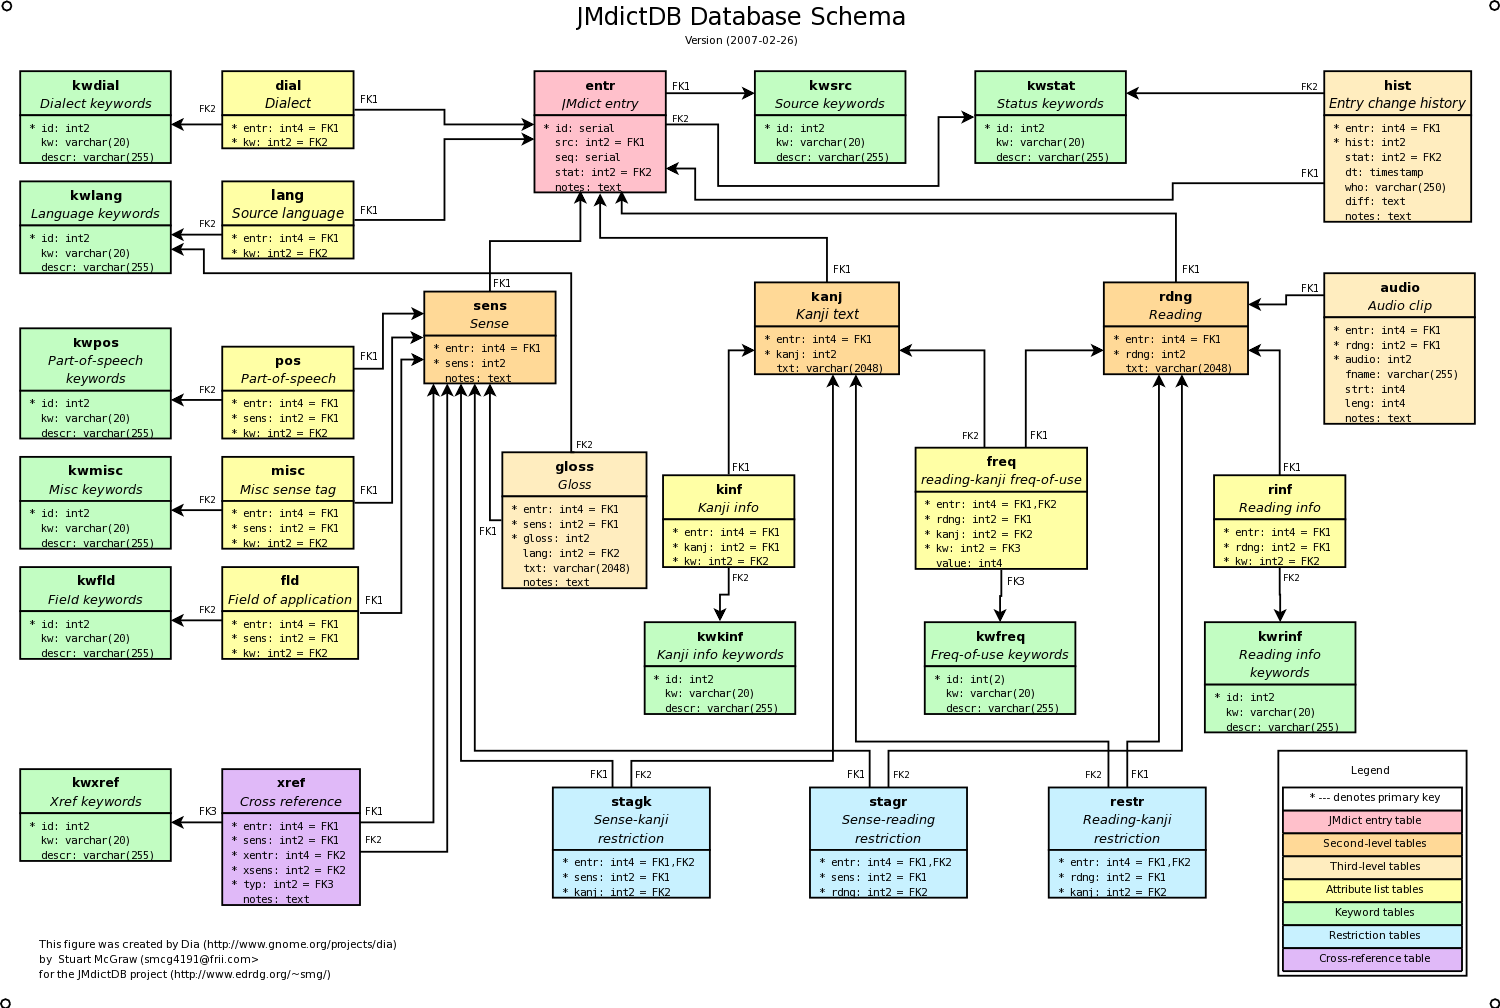
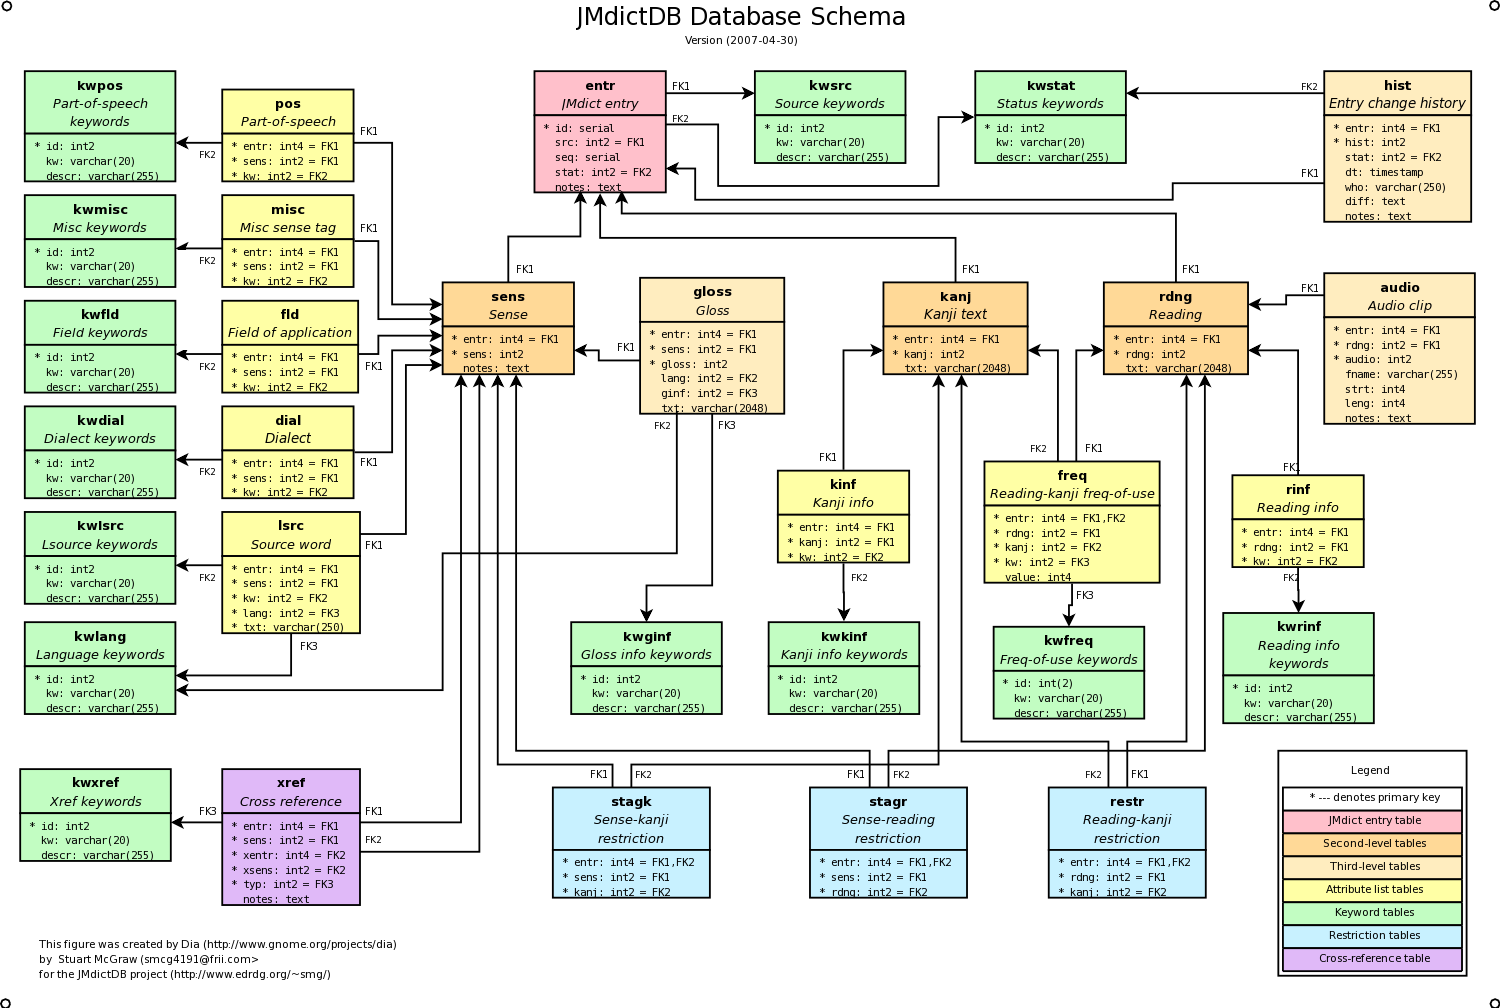
Regenerated to track changes in prerequisite files. {36}

Changed region(s): [[0.0, 0.0615, 0.92, 0.8304], [0.3067, 0.123, 0.368, 0.1538]]

diff --git a/doc/schema.html b/doc/schema.html
@@ -6,7 +6,7 @@
 	<META NAME="GENERATOR" CONTENT="OpenOffice.org 2.0  (Linux)">
 	<META NAME="CREATED" CONTENT="20020715;12385300">
 	<META NAME="CHANGEDBY" CONTENT="Stuart McGraw">
-	<META NAME="CHANGED" CONTENT="20070313;13493600">
+	<META NAME="CHANGED" CONTENT="20070501;23212000">
 	<META NAME="SDENDNOTE" CONTENT="ARABIC;;[;]">
 	<STYLE>
 	<!--
@@ -205,28 +205,6 @@ denoted by indentation of the table names:</P>
 	</TR>
 	<TR VALIGN=TOP>
 		<TD WIDTH=21%>
-			<P>&nbsp;&nbsp;&nbsp;&nbsp;<B>dial</B></P>
-		</TD>
-		<TD WIDTH=28%>
-			<P>&lt;dial&gt;</P>
-		</TD>
-		<TD WIDTH=51%>
-			<P>Dialect(s)</P>
-		</TD>
-	</TR>
-	<TR VALIGN=TOP>
-		<TD WIDTH=21%>
-			<P>&nbsp;&nbsp;&nbsp;&nbsp;<B>lang</B></P>
-		</TD>
-		<TD WIDTH=28%>
-			<P>&lt;klang&gt;</P>
-		</TD>
-		<TD WIDTH=51%>
-			<P>Source language(s)</P>
-		</TD>
-	</TR>
-	<TR VALIGN=TOP>
-		<TD WIDTH=21%>
 			<P>&nbsp;&nbsp;&nbsp;&nbsp;<B>kanj</B></P>
 		</TD>
 		<TD WIDTH=28%>
@@ -337,6 +315,28 @@ denoted by indentation of the table names:</P>
 			<P>English and other language glosses</P>
 		</TD>
 	</TR>
+	<TR VALIGN=TOP>
+		<TD WIDTH=21%>
+			<P>&nbsp;&nbsp;&nbsp;&nbsp;&nbsp;&nbsp;&nbsp;&nbsp;<B>dial</B></P>
+		</TD>
+		<TD WIDTH=28%>
+			<P>&lt;dial&gt;</P>
+		</TD>
+		<TD WIDTH=51%>
+			<P>Dialect</P>
+		</TD>
+	</TR>
+	<TR VALIGN=TOP>
+		<TD WIDTH=21%>
+			<P>&nbsp;&nbsp;&nbsp;&nbsp;&nbsp;&nbsp;&nbsp;&nbsp;<B>lsrc</B></P>
+		</TD>
+		<TD WIDTH=28%>
+			<P>&lt;lsource&gt;</P>
+		</TD>
+		<TD WIDTH=51%>
+			<P>Source language and word</P>
+		</TD>
+	</TR>
 	<TR>
 		<TD COLSPAN=3 WIDTH=100% HEIGHT=64 VALIGN=TOP>
 			<P><BR><BR>
@@ -415,7 +415,7 @@ respectively. Since the referenced readings and kanji are always in
 the same entry, the <I><U>restr</U></I> table need only reference the
 entr column once, so the columns in <I><U>restr</U></I> will be
 (<I><SPAN STYLE="text-decoration: none"><SPAN STYLE="background: transparent">entr,rdng,
-kanj</SPAN></SPAN></I>) constituting the foreign keys (<I><SPAN STYLE="text-decoration: none"><SPAN STYLE="background: transparent">entr,rdng</SPAN></SPAN></I>)
+kanj</SPAN></SPAN></I>) and its foreign keys are (<I><SPAN STYLE="text-decoration: none"><SPAN STYLE="background: transparent">entr,rdng</SPAN></SPAN></I>)
 and (<I><SPAN STYLE="text-decoration: none"><SPAN STYLE="background: transparent">entr,kanj</SPAN></SPAN></I>).
  The <I><U>stagr</U></I> and <I><U>stagk</U></I> tables are similar.</P>
 <P STYLE="margin-bottom: 0.2in">The table <I><U>xref</U></I> also has
@@ -444,7 +444,7 @@ prefix &quot;kw&quot; and we sometimes collectively refer to them as
 &quot;lookup tables&quot; in database literature.)  We also use the
 words “keyword” and “tag” somewhat interchangeably, although
 the former tends to occur in the context of the database, and the
-latter in the context of the JMdict XML.</P>
+latter in the context of the JMdict XML.\</P>
 <P STYLE="margin-bottom: 0.2in">Here are the contents of the <I><U>kinf</U></I>
 table, which contains the keywords used in the <I><U>kinf</U></I>
 table (which in turn corresponds to the &lt;ke_inf&gt; elements in
@@ -459,11 +459,20 @@ oK | word containing out-dated kanji<BR>4</FONT><KBD><FONT SIZE=2 STYLE="font-si
 ik | word containing irregular kana usage</FONT></KBD></FONT></FONT></P>
 <P STYLE="margin-bottom: 0.2in">kw* tables that correspond to
 entities and abbreviations used in JMdict xml are: <I><U>kwdial</U></I>,
-<I><U>kwfreq</U></I>, <I><U>kwkinf</U></I>, <I><U>kwlang</U></I>,
-<I><U>kwrinf</U></I>.</P>
-<P STYLE="margin-bottom: 0.2in">There are several kw* tables that
-don't correspond to anything in JMdict: <I><U>kwsrc</U></I>, <I><U>kwstat</U></I>,
-<I><U>kwxref</U></I>.</P>
+<I><U>kwfld</U></I>, <I><U>kwfreq</U></I>, <I><U>kwkinf</U></I>,
+<I><U>kwlang</U></I>, <I><U>kwlsrc</U></I>, <I><U>kwmisc</U></I>,
+<I><U>kwpos</U></I>, <I><U>kwrinf</U></I>.  There are several kw*
+tables that don't correspond to anything in JMdict: <I><U>kwsrc</U></I>,
+<I><U>kwstat</U></I>, <I><U>kwxref</U></I>.</P>
+<P STYLE="margin-bottom: 0.2in">The keyword tables' primary function
+is to enforce the use of valid keyword values in other tables by
+means of referential integrity.  For this purpose only the values in
+the keyword tables' <I><SPAN STYLE="text-decoration: none"><SPAN STYLE="background: transparent">id</SPAN></SPAN></I>
+columns are significant.  The <I><SPAN STYLE="text-decoration: none"><SPAN STYLE="background: transparent">kw</SPAN></SPAN></I>
+and <I><SPAN STYLE="text-decoration: none"><SPAN STYLE="background: transparent">descr</SPAN></SPAN></I>
+texts are available for the use of applications to use for display,
+but applications are free to map their own texts to the keyword id
+numbers.</P>
 <P STYLE="margin-bottom: 0.2in">The keyword tables are colored green
 in the schema diagram.</P>
 <OL>
@@ -483,9 +492,14 @@ and <I><SPAN STYLE="text-decoration: none"><SPAN STYLE="background: transparent"
 together identify a specific kanji element that a keyword applies to,
 and <I><SPAN STYLE="text-decoration: none"><SPAN STYLE="background: transparent">kw</SPAN></SPAN></I>
 identifies the appropriate ke_inf keyword in table <I><SPAN STYLE="text-decoration: none"><SPAN STYLE="background: transparent">kwkinf</SPAN></SPAN></I>.</P>
+<P STYLE="margin-bottom: 0.2in">A few keyword list table have some
+other information in addition to the keywords.  The table <I><U>freq</U></I>
+for example contains freq keywords, and also a numeric value
+associated with each.  The rows in table <I><U>lsrc</U></I> contain
+an lsrc keyword and also a language keyword and text source word.</P>
 <P STYLE="margin-bottom: 0.2in">The tables that contain such keyword
 lists are: <I><U>dial</U></I>, <I><U>fld</U></I>, <I><U>freq</U></I>,
-<I><U>kinf</U></I>, <I><U>lang</U></I>, <I><U>misc</U></I>, <I><U>pos</U></I>,
+<I><U>kinf</U></I>, <I><U>lsrc</U></I>, <I><U>misc</U></I>, <I><U>pos</U></I>,
 <I><U>rinf</U></I>. 
 </P>
 <P STYLE="margin-bottom: 0.2in">Not all references to the kw* tables
@@ -635,8 +649,8 @@ and JMdict XML recreated from the database:</P>
 	<LI><P CLASS="list-2-start-western">There may be keyword values in
 	the kw* tables and used in the database that do not have equivalent
 	entities defined in the JMdict DTD.</P>
-	<LI><P CLASS="list-2-start-western">Some items (e.g. entries and
-	glosses) have a <I><SPAN STYLE="text-decoration: none"><SPAN STYLE="background: transparent">notes</SPAN></SPAN></I>
+	<LI><P CLASS="list-2-start-western">The <I><U>entr</U></I> table has
+	a <I><SPAN STYLE="text-decoration: none"><SPAN STYLE="background: transparent">notes</SPAN></SPAN></I>
 	column that can contain additional ad-hoc information.  JMdict has
 	no means of representing this information.</P>
 	<P STYLE="margin-bottom: 0.2in">If entries are created that make use
@@ -743,23 +757,23 @@ users.</P>
 <P STYLE="margin-bottom: 0.2in; background: #e6e6ff; border: 1px solid #000000; padding: 0.02in; page-break-inside: avoid; widows: 0; orphans: 0; page-break-before: auto; page-break-after: avoid">
 <FONT FACE="Courier New, monospace"><FONT SIZE=2 STYLE="font-size: 9pt">select
 * from gloss where entr=20894;<BR>entr<KBD>&nbsp;<KBD>&nbsp;</KBD></KBD>|
-sens | gloss | lang | txt<KBD>&nbsp;<KBD>&nbsp;<KBD>&nbsp;<KBD>&nbsp;<KBD>&nbsp;<KBD>&nbsp;<KBD>&nbsp;<KBD>&nbsp;<KBD>&nbsp;<KBD>&nbsp;</KBD></KBD></KBD></KBD></KBD></KBD></KBD></KBD></KBD></KBD>|
-notes<BR>------+------+-------+------+--------------+-------<BR>20894
+sens | gloss | lang |
+txt<KBD>&nbsp;<KBD>&nbsp;<KBD>&nbsp;<KBD>&nbsp;<KBD>&nbsp;<KBD>&nbsp;<KBD>&nbsp;<KBD>&nbsp;<KBD>&nbsp;<KBD>&nbsp;</KBD></KBD></KBD></KBD></KBD></KBD></KBD></KBD></KBD></KBD><BR>------+------+-------+------+--------------<BR>20894
 | 1<KBD>&nbsp;<KBD>&nbsp;<KBD>&nbsp;<KBD>&nbsp;</KBD></KBD></KBD></KBD>|
 1<KBD>&nbsp;<KBD>&nbsp;<KBD>&nbsp;<KBD>&nbsp;<KBD>&nbsp;</KBD></KBD></KBD></KBD></KBD>|
 1<KBD>&nbsp;<KBD>&nbsp;<KBD>&nbsp;<KBD>&nbsp;</KBD></KBD></KBD></KBD>|
-proficient<KBD>&nbsp;<KBD>&nbsp;<KBD>&nbsp;</KBD></KBD></KBD>|<BR>20894
+proficient<KBD>&nbsp;<KBD>&nbsp;<KBD>&nbsp;</KBD></KBD></KBD><BR>20894
 | 1<KBD>&nbsp;<KBD>&nbsp;<KBD>&nbsp;<KBD>&nbsp;</KBD></KBD></KBD></KBD>|
 2<KBD>&nbsp;<KBD>&nbsp;<KBD>&nbsp;<KBD>&nbsp;<KBD>&nbsp;</KBD></KBD></KBD></KBD></KBD>|
 1<KBD>&nbsp;<KBD>&nbsp;<KBD>&nbsp;<KBD>&nbsp;</KBD></KBD></KBD></KBD>|
-skillful<KBD>&nbsp;<KBD>&nbsp;<KBD>&nbsp;<KBD>&nbsp;<KBD>&nbsp;</KBD></KBD></KBD></KBD></KBD>|<BR>20894
+skillful<KBD>&nbsp;<KBD>&nbsp;<KBD>&nbsp;<KBD>&nbsp;<KBD>&nbsp;</KBD></KBD></KBD></KBD></KBD><BR>20894
 | 2<KBD>&nbsp;<KBD>&nbsp;<KBD>&nbsp;<KBD>&nbsp;</KBD></KBD></KBD></KBD>|
 1<KBD>&nbsp;<KBD>&nbsp;<KBD>&nbsp;<KBD>&nbsp;<KBD>&nbsp;</KBD></KBD></KBD></KBD></KBD>|
 1<KBD>&nbsp;<KBD>&nbsp;<KBD>&nbsp;<KBD>&nbsp;</KBD></KBD></KBD></KBD>|
-satisfaction |<BR>20894 | 3<KBD>&nbsp;<KBD>&nbsp;<KBD>&nbsp;<KBD>&nbsp;</KBD></KBD></KBD></KBD>|
+satisfaction <BR>20894 | 3<KBD>&nbsp;<KBD>&nbsp;<KBD>&nbsp;<KBD>&nbsp;</KBD></KBD></KBD></KBD>|
 1<KBD>&nbsp;<KBD>&nbsp;<KBD>&nbsp;<KBD>&nbsp;<KBD>&nbsp;</KBD></KBD></KBD></KBD></KBD>|
 1<KBD>&nbsp;<KBD>&nbsp;<KBD>&nbsp;<KBD>&nbsp;</KBD></KBD></KBD></KBD>|
-fortitude<KBD>&nbsp;<KBD>&nbsp;<KBD>&nbsp;<KBD>&nbsp;</KBD></KBD></KBD></KBD>|</FONT></FONT></P>
+fortitude<KBD>&nbsp;<KBD>&nbsp;<KBD>&nbsp;<KBD>&nbsp;</KBD></KBD></KBD></KBD></FONT></FONT></P>
 <P STYLE="margin-bottom: 0.2in">In this table we see the first two
 rows are glosses for the first sense, the second row is a gloss for
 second sense, and the third row a gloss for the third sense.  The
@@ -1071,7 +1085,7 @@ the JMdict XML element &lt;sense&gt;.<BR>    entr INT NOT NULL,<BR>
 -- belongs to.<BR>    sens SMALLINT NOT NULL,<BR>      --
 Disambiguates and orders multiple senses in an entry.<BR>    notes
 TEXT,<BR>      -- Arbitrary additional textual information pertaining
-to <BR>      -- this sense.  Maps to the JMdict XML &lt;s_info&gt;
+to <BR>      -- this sense.  Maps to the JMdict XML &lt;s_inf&gt;
 element.<BR>    PRIMARY KEY(entr,sens));<BR><BR>CREATE TABLE gloss (<BR>
      -- Represents a gloss in a sense.  Maps to the JMdict XML<BR>   
   -- &lt;gloss&gt; element.<BR>    entr INT NOT NULL,<BR>      -- FK
@@ -1080,15 +1094,15 @@ to identify the entry this gloss belongs to.<BR>    sens SMALLINT NOT
 NULL,<BR>      -- FK to <I><SPAN STYLE="text-decoration: none"><SPAN STYLE="background: transparent">sens.sens</SPAN></SPAN></I>
 to identify the sense this gloss belongs to.<BR>    gloss SMALLINT
 NOT NULL,<BR>      -- Disambiguates and orders multiple glosses in a
-sense.<BR>    lang SMALLINT NOT NULL,<BR>      -- FK to <I><SPAN STYLE="text-decoration: none"><SPAN STYLE="background: transparent">kwlang.id</SPAN></SPAN></I>.
- Language of this gloss.<BR>    txt VARCHAR(2048) NOT NULL,<BR>     
--- The gloss text.<BR>    notes TEXT,<BR>      -- Arbitrary
-additional textual information pertaining to <BR>      -- this gloss.
- <BR>    PRIMARY KEY(entr,sens,gloss));<BR><BR>CREATE TABLE xref (<BR>
-     -- Models various types of cross-references between entries (or<BR>
-     -- more accurately, between senses of entries.)  Maps
-approximately<BR>      -- to JMdict XML elements &lt;xref&gt; and
-&lt;ant&gt;.<BR>    entr INT NOT NULL,<BR>      -- FK to <I><SPAN STYLE="text-decoration: none"><SPAN STYLE="background: transparent">entr.id</SPAN></SPAN></I>.
+sense.<BR>    lang SMALLINT NOT NULL,<BR>      -- FK to <I><U>kwlang</U></I><I><SPAN STYLE="text-decoration: none"><SPAN STYLE="background: transparent">.<SPAN STYLE="text-decoration: none"><SPAN STYLE="background: transparent">id</SPAN></SPAN></SPAN></SPAN></I>.
+ Language of this gloss.<BR>    ginf SMALLINT NOT NULL,<BR>      --
+FK to <I><U>kwginf</U></I>.<I><SPAN STYLE="text-decoration: none"><SPAN STYLE="background: transparent">id</SPAN></SPAN></I>.
+ Type of gloss.<BR>    txt VARCHAR(2048) NOT NULL,<BR>      -- The
+gloss text.<BR>    PRIMARY KEY(entr,sens,gloss));<BR><BR>CREATE TABLE
+xref (<BR>      -- Models various types of cross-references between
+entries (or<BR>      -- more accurately, between senses of entries.) 
+Maps approximately<BR>      -- to JMdict XML elements &lt;xref&gt;
+and &lt;ant&gt;.<BR>    entr INT NOT NULL,<BR>      -- FK to <I><SPAN STYLE="text-decoration: none"><SPAN STYLE="background: transparent">entr.id</SPAN></SPAN></I>.
  Identifies the entry this cross-reference<BR>      -- belongs to.<BR>
    sens SMALLINT NOT NULL,<BR>      -- FK to <I><SPAN STYLE="text-decoration: none"><SPAN STYLE="background: transparent">sens.id</SPAN></SPAN></I>.
  Identifies the sense this cross-reference<BR>      -- belongs to.<BR>
@@ -1157,41 +1171,49 @@ INT,<BR>      -- The value of the datum on the scale identified by
 <I><SPAN STYLE="text-decoration: none"><SPAN STYLE="background: transparent">kw</SPAN></SPAN></I>.<BR>
    UNIQUE (entr,rdng,kanj,kw),<BR>    CHECK (rdng NOTNULL OR kanj
 NOTNULL));<BR><BR>CREATE TABLE dial (<BR>      -- Provides lists of
-dialects for entries.  This information<BR>      -- corresponds to
-the JMdict XML &lt;dial&gt; element.<BR>    entr INT NOT NULL,<BR>   
-  -- FK to <I><SPAN STYLE="text-decoration: none"><SPAN STYLE="background: transparent">entr.id</SPAN></SPAN></I>.
- Identifies entry that dialect applies to.<BR>    kw SMALLINT NOT
-NULL,<BR>      -- FK to <I><SPAN STYLE="text-decoration: none"><SPAN STYLE="background: transparent">kwdial.id</SPAN></SPAN></I>.
- Identifies the dialect keyword.<BR>    PRIMARY KEY
-(entr,kw));<BR><BR>CREATE TABLE fld (<BR>      -- Provides lists of
-fields for entries.  This information<BR>      -- corresponds to the
-JMdict XML &lt;field&gt; element.<BR>    entr INT NOT NULL,<BR>     
+dialects for senses.  This information<BR>      -- corresponds to the
+JMdict XML &lt;dial&gt; element.<BR>    entr INT NOT NULL,<BR>     
 -- FK to <I><SPAN STYLE="text-decoration: none"><SPAN STYLE="background: transparent">entr.id</SPAN></SPAN></I>.
+ Identifies entry that dialect applies to.<BR><SAMP CLASS="western"> 
+  sens SMALLINT NOT NULL,<BR>      -- FK to <I><SPAN STYLE="text-decoration: none"><SPAN STYLE="background: transparent">sens.sens</SPAN></SPAN></I>.
+ Identifies the sense that field applies to.<BR></SAMP>    kw
+SMALLINT NOT NULL,<BR>      -- FK to <I><SPAN STYLE="text-decoration: none"><SPAN STYLE="background: transparent">kwdial.id</SPAN></SPAN></I>.
+ Identifies the dialect keyword.<BR>    PRIMARY KEY
+(entr,sens,kw));<BR><BR>CREATE TABLE fld (<BR>      -- Provides lists
+of fields for entries.  This information<BR>      -- corresponds to
+the JMdict XML &lt;field&gt; element.<BR>    entr INT NOT NULL,<BR>  
+   -- FK to <I><SPAN STYLE="text-decoration: none"><SPAN STYLE="background: transparent">entr.id</SPAN></SPAN></I>.
  Identifies entry that field applies to.<BR>    sens SMALLINT NOT
 NULL,<BR>      -- FK to <I><SPAN STYLE="text-decoration: none"><SPAN STYLE="background: transparent">sens.sens</SPAN></SPAN></I>.
  Identifies the sense that field applies to.<BR>    kw SMALLINT NOT
 NULL,<BR>      -- FK to <I><SPAN STYLE="text-decoration: none"><SPAN STYLE="background: transparent">kwfld.id</SPAN></SPAN></I>.
  Identifies the field keyword.<BR>    PRIMARY KEY
-(entr,sens,kw));<BR><BR>CREATE TABLE kinf (<BR>      -- Provides
-lists of kanji info tags for kanji items.  This<BR>      --
-information corresponds to the JMdict XML &lt;ke_inf&gt; element.<BR>
-   entr INT NOT NULL,<BR>      -- FK to <I><SPAN STYLE="text-decoration: none"><SPAN STYLE="background: transparent">entr.id</SPAN></SPAN></I>.
+(entr,sens,kw));<BR><SAMP CLASS="western"><BR></SAMP>CREATE TABLE
+kinf (<BR>      -- Provides lists of kanji info tags for kanji items.
+ This<BR>      -- information corresponds to the JMdict XML &lt;ke_inf&gt;
+element.<BR>    entr INT NOT NULL,<BR>      -- FK to <I><SPAN STYLE="text-decoration: none"><SPAN STYLE="background: transparent">entr.id</SPAN></SPAN></I>.
  Identifies entry that the kinf tag applies to.<BR>    kanj SMALLINT
 NOT NULL,<BR>      -- FK to <I><SPAN STYLE="text-decoration: none"><SPAN STYLE="background: transparent">kanj.kanj</SPAN></SPAN></I>.
  Identifies the kanji item that kinf tag<BR>      -- applies to.<BR> 
   kw SMALLINT NOT NULL,<BR>      -- FK to <I><SPAN STYLE="text-decoration: none"><SPAN STYLE="background: transparent">kwkinf.id</SPAN></SPAN></I>.
  Identifies the kanji info keyword.<BR>    PRIMARY KEY
-(entr,kanj,kw));<BR><BR>CREATE TABLE lang (<BR>      -- Provides
-lists of (source) language for entries.  This<BR>      -- information
-corresponds to the JMdict XML &lt;lang&gt; element.<BR>    entr INT
-NOT NULL,<BR>      -- FK to <I><SPAN STYLE="text-decoration: none"><SPAN STYLE="background: transparent">entr.id</SPAN></SPAN></I>.
- Identifies entry that field applies to.<BR>    kw SMALLINT NOT
-NULL,<BR>      -- FK to <I><SPAN STYLE="text-decoration: none"><SPAN STYLE="background: transparent">kwlang.id</SPAN></SPAN></I>.
- Identifies the language keyword.<BR>    PRIMARY KEY
-(entr,kw));<BR><BR>CREATE TABLE misc (<BR>      -- Provides lists of
-misc tags for senses.  This information<BR>      -- corresponds to
-the JMdict XML &lt;misc&gt; element.<BR>    entr INT NOT NULL,<BR>   
-  -- FK to <I><SPAN STYLE="text-decoration: none"><SPAN STYLE="background: transparent">entr.id</SPAN></SPAN></I>.
+(entr,kanj,kw));<BR><BR>CREATE TABLE lsrc (<BR>      -- Provides the
+foreign language word and language for each<BR>      -- sense for
+imported words.  This information corresponds to<BR>      -- the
+JMdict XML &lt;lsource&gt; element.<BR>    entr INT NOT NULL,<BR>    
+ -- FK to <I><SPAN STYLE="text-decoration: none"><SPAN STYLE="background: transparent">entr.id</SPAN></SPAN></I>.
+ Identifies entry that field applies to.<BR><SAMP CLASS="western">   
+sens SMALLINT NOT NULL,<BR>      -- FK to <I><SPAN STYLE="text-decoration: none"><SPAN STYLE="background: transparent">enrt.sens</SPAN></SPAN></I>.
+ Identifies the sens item that lsrc tag<BR>      -- applies to.<BR>  
+ Kw SMALLINT NOT NULL,<BR>      -- FK to <I><SPAN STYLE="text-decoration: none"><SPAN STYLE="background: transparent">kwlsrc.id</SPAN></SPAN></I>.
+ Identifies the type of lsource tag<BR>      -- this is.<BR></SAMP>  
+ lang SMALLINT NOT NULL,<BR>      -- FK to <I><SPAN STYLE="text-decoration: none"><SPAN STYLE="background: transparent">kwlang.id</SPAN></SPAN></I>.
+ Identifies the language keyword.<BR>    txt VARCHAR(250)<BR>      --
+The word in language 'lang' from which this word sense <BR>      --
+was derived.<BR>    PRIMARY KEY (entr,sens,kw,txt));<BR><BR>CREATE
+TABLE misc (<BR>      -- Provides lists of misc tags for senses. 
+This information<BR>      -- corresponds to the JMdict XML &lt;misc&gt;
+element.<BR>    entr INT NOT NULL,<BR>      -- FK to <I><SPAN STYLE="text-decoration: none"><SPAN STYLE="background: transparent">entr.id</SPAN></SPAN></I>.
  Identifies entry that misc tag applies to.<BR>    sens SMALLINT NOT
 NULL,<BR>      -- FK to <I><SPAN STYLE="text-decoration: none"><SPAN STYLE="background: transparent">sens.sens</SPAN></SPAN></I>.
  Identifies the sense that misc tag applies to.<BR>    kw SMALLINT
@@ -1263,27 +1285,31 @@ VARCHAR(255));<BR><BR>CREATE TABLE kwfreq (<BR>    id SMALLINT
 PRIMARY KEY,<BR>    kw VARCHAR(20) NOT NULL UNIQUE,<BR>    descr
 VARCHAR(255));<BR><BR>CREATE TABLE kwfld (<BR>    id SMALLINT PRIMARY
 KEY,<BR>    kw VARCHAR(20) NOT NULL UNIQUE,<BR>    descr
-VARCHAR(255));<BR><BR>CREATE TABLE kwkinf (<BR>    id SMALLINT
-PRIMARY KEY,<BR>    kw VARCHAR(20) NOT NULL,<BR>      -- 'kw' not
-declared UNIQUE because there are some<BR>      -- rows where kw
-differs only in case, and this (at<BR>      -- in some of the locales
-used during testing) violated<BR>      -- the unique constraint.<BR> 
-  descr VARCHAR(255));<BR><BR>CREATE TABLE kwlang (<BR>    id
+VARCHAR(255));<BR><BR><SAMP CLASS="western">CREATE TABLE kwginf (<BR>
+   id SMALLINT PRIMARY KEY,<BR>    kw VARCHAR(20) NOT NULL UNIQUE,<BR>
+   descr VARCHAR(255));<BR></SAMP><BR>CREATE TABLE kwkinf (<BR>    id
+SMALLINT PRIMARY KEY,<BR>    kw VARCHAR(20) NOT NULL,<BR>      --
+'kw' not declared UNIQUE because there are some<BR>      -- rows
+where kw differs only in case, and this (at<BR>      -- in some of
+the locales used during testing) violated<BR>      -- the unique
+constraint.<BR>    descr VARCHAR(255));<BR><BR>CREATE TABLE kwlang (<BR>
+   id SMALLINT PRIMARY KEY,<BR>    kw VARCHAR(20) NOT NULL UNIQUE,<BR>
+   descr VARCHAR(255));<BR><BR><SAMP CLASS="western">CREATE TABLE
+kwlsrc (<BR>    id SMALLINT PRIMARY KEY,<BR>    kw VARCHAR(20) NOT
+NULL UNIQUE,<BR>    descr VARCHAR(255));<BR></SAMP><BR>CREATE TABLE
+kwmisc (<BR>    id SMALLINT PRIMARY KEY,<BR>    kw VARCHAR(20) NOT
+NULL,<BR>      -- 'kw' not declared UNIQUE because there are some<BR>
+     -- rows where kw differs only in case, and this (at<BR>      --
+in some of the locales used during testing) violated<BR>      -- the
+unique constraint.<BR>    descr VARCHAR(255));<BR><BR>CREATE TABLE
+kwpos (<BR>    id SMALLINT PRIMARY KEY,<BR>    kw VARCHAR(20) NOT
+NULL UNIQUE,<BR>    descr VARCHAR(255));<BR><BR>CREATE TABLE kwrinf
+(<BR>    id SMALLINT PRIMARY KEY,<BR>    kw VARCHAR(20) NOT NULL
+UNIQUE,<BR>    descr VARCHAR(255));<BR><BR>CREATE TABLE kwsrc (<BR>  
+ id SMALLINT PRIMARY KEY,<BR>    kw VARCHAR(20) NOT NULL UNIQUE,<BR> 
+  descr VARCHAR(255));<BR><BR>CREATE TABLE kwstat (<BR>    id
 SMALLINT PRIMARY KEY,<BR>    kw VARCHAR(20) NOT NULL UNIQUE,<BR>   
-descr VARCHAR(255));<BR><BR>CREATE TABLE kwmisc (<BR>    id SMALLINT
-PRIMARY KEY,<BR>    kw VARCHAR(20) NOT NULL,<BR>      -- 'kw' not
-declared UNIQUE because there are some<BR>      -- rows where kw
-differs only in case, and this (at<BR>      -- in some of the locales
-used during testing) violated<BR>      -- the unique constraint.<BR> 
-  descr VARCHAR(255));<BR><BR>CREATE TABLE kwpos (<BR>    id SMALLINT
-PRIMARY KEY,<BR>    kw VARCHAR(20) NOT NULL UNIQUE,<BR>    descr
-VARCHAR(255));<BR><BR>CREATE TABLE kwrinf (<BR>    id SMALLINT
-PRIMARY KEY,<BR>    kw VARCHAR(20) NOT NULL UNIQUE,<BR>    descr
-VARCHAR(255));<BR><BR>CREATE TABLE kwsrc (<BR>    id SMALLINT PRIMARY
-KEY,<BR>    kw VARCHAR(20) NOT NULL UNIQUE,<BR>    descr
-VARCHAR(255));<BR><BR>CREATE TABLE kwstat (<BR>    id SMALLINT
-PRIMARY KEY,<BR>    kw VARCHAR(20) NOT NULL UNIQUE,<BR>    descr
-VARCHAR(255));<BR><BR>CREATE TABLE kwxref (<BR>    id SMALLINT
+descr VARCHAR(255));<BR><BR>CREATE TABLE kwxref (<BR>    id SMALLINT
 PRIMARY KEY,<BR>    kw VARCHAR(20) NOT NULL UNIQUE,<BR>    descr
 VARCHAR(255));<BR></SAMP><BR><BR>
 </P>
